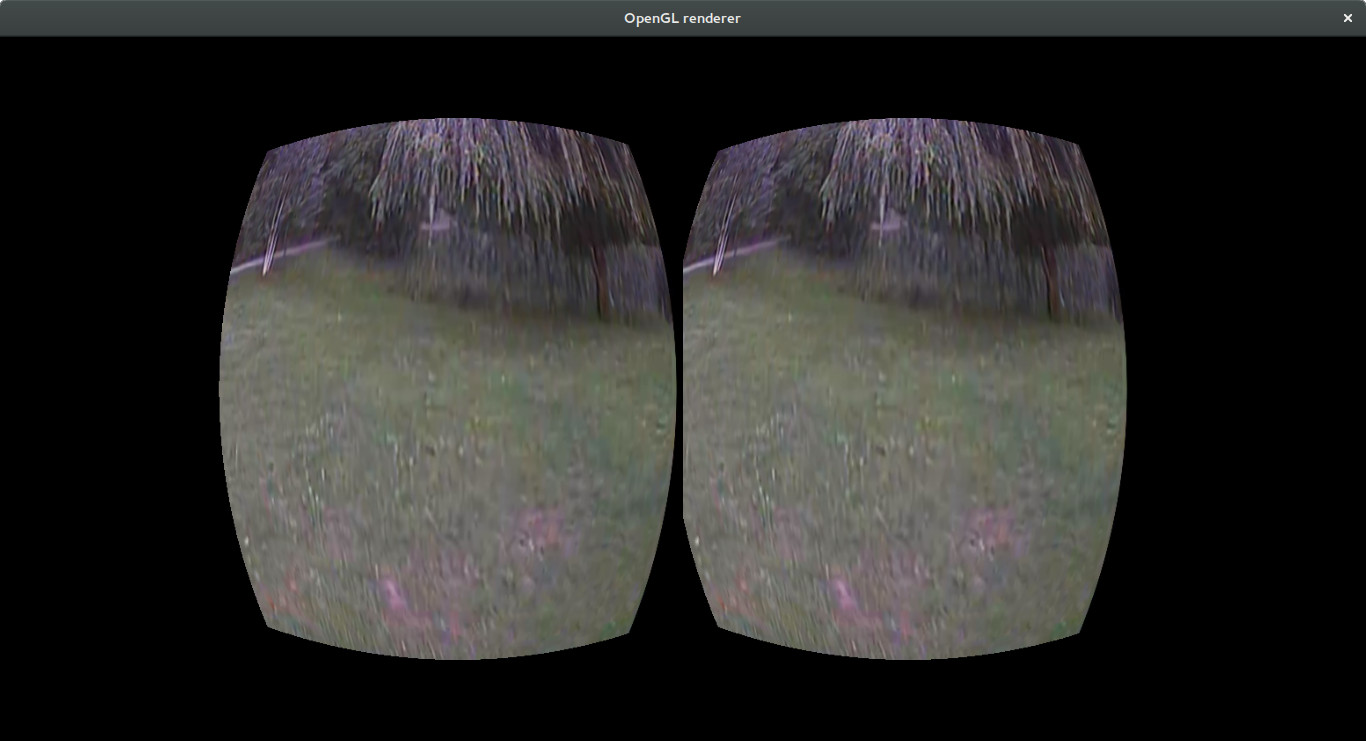
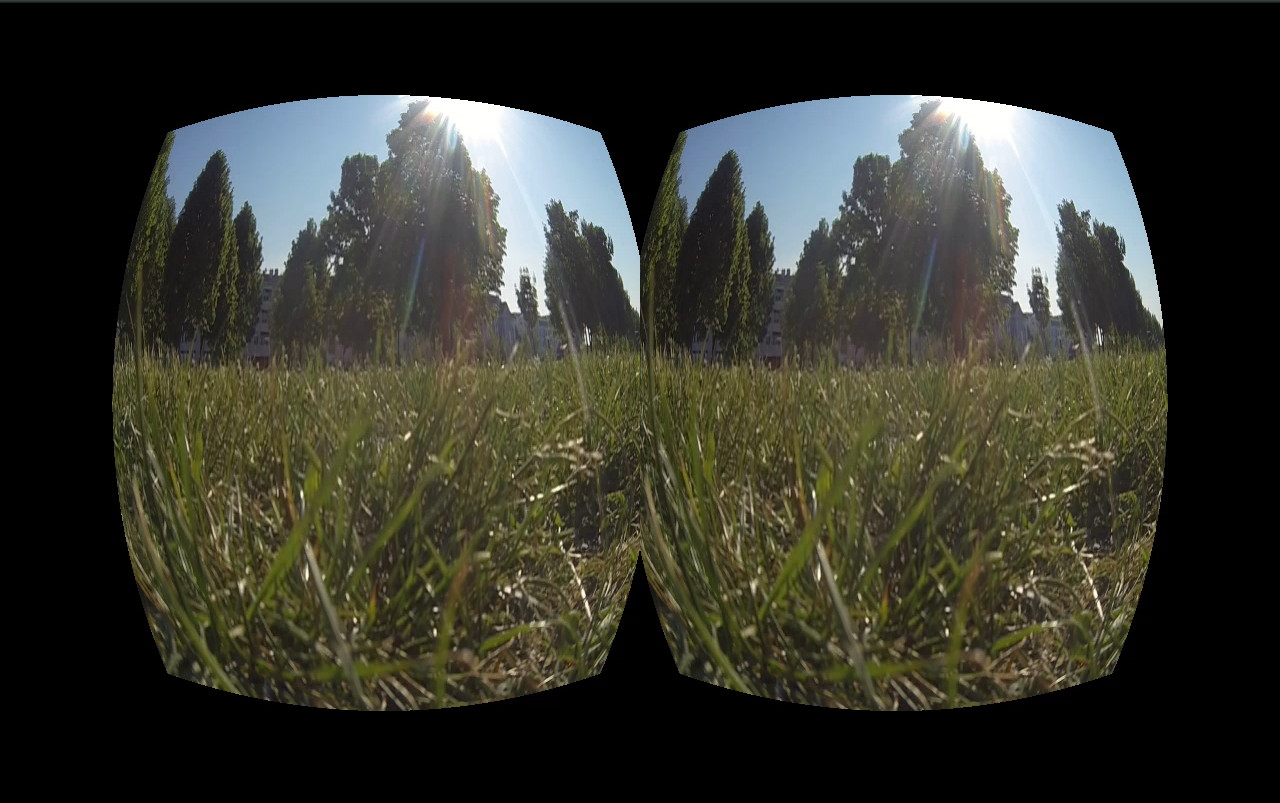
update screenshot, link to demo video

diff --git a/README.md b/README.md
@@ -4,7 +4,7 @@ NB: this is work in progress
 
 This software uses gstreamer and OpenGL to to produce side-by-side video from a single video input (e.g. FPV quadcopters) for display on an OculusRift device. It also supports headtracking on PC, but currently not on raspberrypi. 
 
-![screenshot](https://raw.githubusercontent.com/fthiery/gst-oculus-fpv/master/screenshot.jpg)
+[![screenshot](https://raw.githubusercontent.com/fthiery/gst-oculus-fpv/master/screenshot.jpg)](https://www.youtube.com/watch?v=mgGwPvxkLoo)
 
 ## Compiling glimagesink for rpi (Arch only)
 
